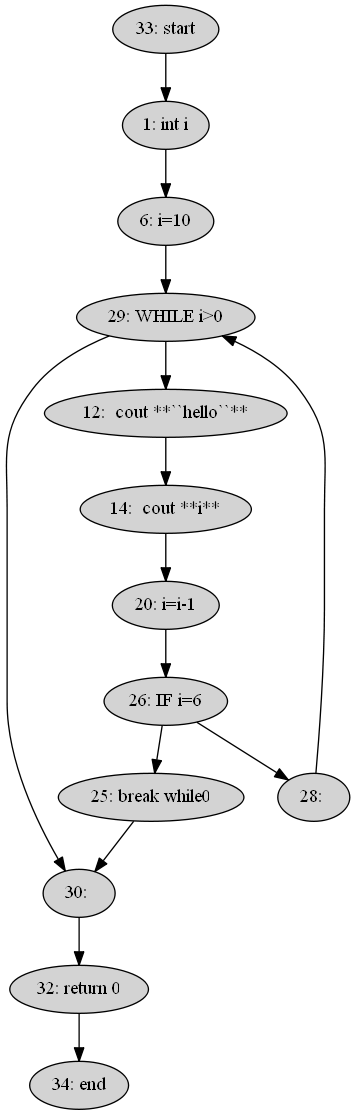
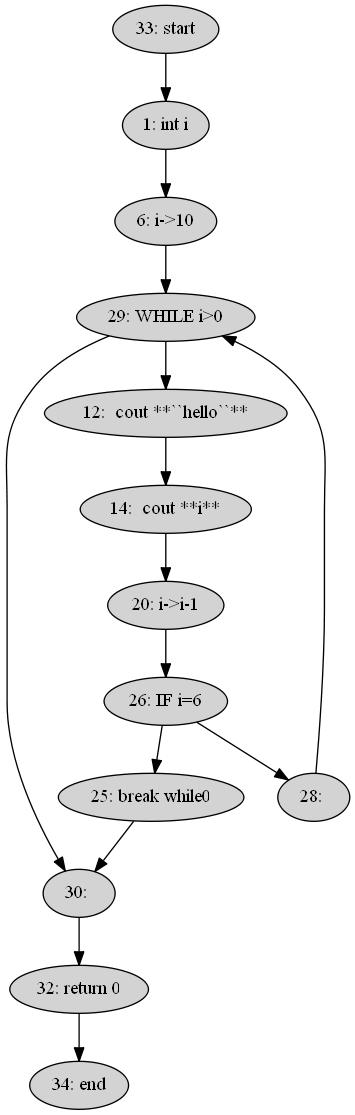
nuevas cosas

Changed region(s): [[0.3099, 0.5184, 0.6507, 0.5794], [0.3099, 0.183, 0.6197, 0.2135]]

diff --git a/GraphReduction/src/scanner/parser.java b/GraphReduction/src/scanner/parser.java
@@ -1,7 +1,7 @@
 
 //----------------------------------------------------
 // The following code was generated by CUP v0.11a beta 20060608
-// Mon Apr 24 20:47:16 CDT 2017
+// Thu Apr 27 19:49:49 CDT 2017
 //----------------------------------------------------
 
 package scanner;
@@ -11,7 +11,7 @@ import java.util.*;
 import graphreduction.*;
 
 /** CUP v0.11a beta 20060608 generated parser.
-  * @version Mon Apr 24 20:47:16 CDT 2017
+  * @version Thu Apr 27 19:49:49 CDT 2017
   */
 public class parser extends java_cup.runtime.lr_parser {
 
@@ -490,7 +490,7 @@ class CUP$parser$actions {
 
 
 ArrayList<CNode> l=new ArrayList<CNode>();
-ArrayList<String> boolexp=new ArrayList<String>();
+ArrayList<BooleanExpresion> boolexp=new ArrayList<BooleanExpresion>();
 LinkedList<CNode> list=new LinkedList<CNode>();
 LinkedList<CNode> breakList=new LinkedList<CNode>();
 LinkedList<CNode> continueList=new LinkedList<CNode>();
@@ -1134,7 +1134,7 @@ int label(){
 		int eright = ((java_cup.runtime.Symbol)CUP$parser$stack.peek()).right;
 		CNode e = (CNode)((java_cup.runtime.Symbol) CUP$parser$stack.peek()).value;
 		 
-                RESULT=new CNode(label(),lc.getSingleCodeLine()+"="+e.getSingleCodeLine());
+                RESULT=new CNode(label(),lc.getSingleCodeLine()+"->"+e.getSingleCodeLine());
                 RESULT.mergeUses(e);
                 RESULT.addDef(lc.getSingleCodeLine());
                 
@@ -1165,7 +1165,7 @@ int label(){
 		int sleright = ((java_cup.runtime.Symbol)CUP$parser$stack.elementAt(CUP$parser$top-1)).right;
 		LinkedList<CNode> sle = (LinkedList<CNode>)((java_cup.runtime.Symbol) CUP$parser$stack.elementAt(CUP$parser$top-1)).value;
 		
-                        boolexp.add(e.getSingleCodeLine());
+                        boolexp.add(new BooleanExpresion(e.getSingleCodeLine(),iiright+1));
                         vdlt.addAll(slt);
                         vdle.addAll(sle);
                         for(int i=0;i<vdlt.size();i++){
@@ -1212,7 +1212,7 @@ int label(){
 		int slright = ((java_cup.runtime.Symbol)CUP$parser$stack.elementAt(CUP$parser$top-1)).right;
 		LinkedList<CNode> sl = (LinkedList<CNode>)((java_cup.runtime.Symbol) CUP$parser$stack.elementAt(CUP$parser$top-1)).value;
 		                    
-                      boolexp.add(e.getSingleCodeLine());
+                      boolexp.add(new BooleanExpresion(e.getSingleCodeLine(),iiright+1));
                       vdl.addAll(sl);
                       for(int i=0;i<vdl.size();i++){
                         if(i>0){
@@ -1332,7 +1332,7 @@ int label(){
 		LinkedList<CNode> sl = (LinkedList<CNode>)((java_cup.runtime.Symbol) CUP$parser$stack.elementAt(CUP$parser$top-1)).value;
 		
                        // RESULT=new CNode(label(),"FOR ");
-                        boolexp.add(e2.getSingleCodeLine());  
+                        boolexp.add(new BooleanExpresion(e2.getSingleCodeLine(),aright+1));  
                          /*UNO LA LISTA DE VARDECL Y STMTLIST*/
                          vdl.addAll(sl);
                          /*UNO TODOS LOS NODOS DEL LIS.T*/
@@ -1392,7 +1392,7 @@ a="while"+whileLabel; actualWhile=a; whileLabel++; whileNames.push(a);
 		 
 
                         
-                         boolexp.add(e.getSingleCodeLine());  
+                         boolexp.add(new BooleanExpresion(e.getSingleCodeLine(),aright+1));  
                          /*UNO LA LISTA DE VARDECL Y STMTLIST*/
                          vdl.addAll(sl);
                          /*UNO TODOS LOS NODOS DEL LIS.T*/

diff --git a/GraphReduction/src/scanner/BooleanExpresion.java b/GraphReduction/src/scanner/BooleanExpresion.java
@@ -1,0 +1,42 @@
+/*
+ * To change this license header, choose License Headers in Project Properties.
+ * To change this template file, choose Tools | Templates
+ * and open the template in the editor.
+ */
+package scanner;
+
+/**
+ *
+ * @author Humanoide
+ */
+public class BooleanExpresion {
+    
+    String expresion;
+
+    public BooleanExpresion(String expresion, int line) {
+        this.expresion = expresion;
+        this.line = line;
+    }
+    int line;
+
+    public String getExpresion() {
+        return expresion;
+    }
+
+    public void setExpresion(String expresion) {
+        this.expresion = expresion;
+    }
+
+    public int getLine() {
+        return line;
+    }
+
+    public void setLine(int line) {
+        this.line = line;
+    }
+    
+    public String toString(){
+        return expresion+" : "+line;
+    }
+    
+}

diff --git a/GraphReduction/src/scanner/sym.java b/GraphReduction/src/scanner/sym.java
@@ -1,7 +1,7 @@
 
 //----------------------------------------------------
 // The following code was generated by CUP v0.11a beta 20060608
-// Mon Apr 24 20:47:16 CDT 2017
+// Thu Apr 27 19:49:49 CDT 2017
 //----------------------------------------------------
 
 package scanner;
